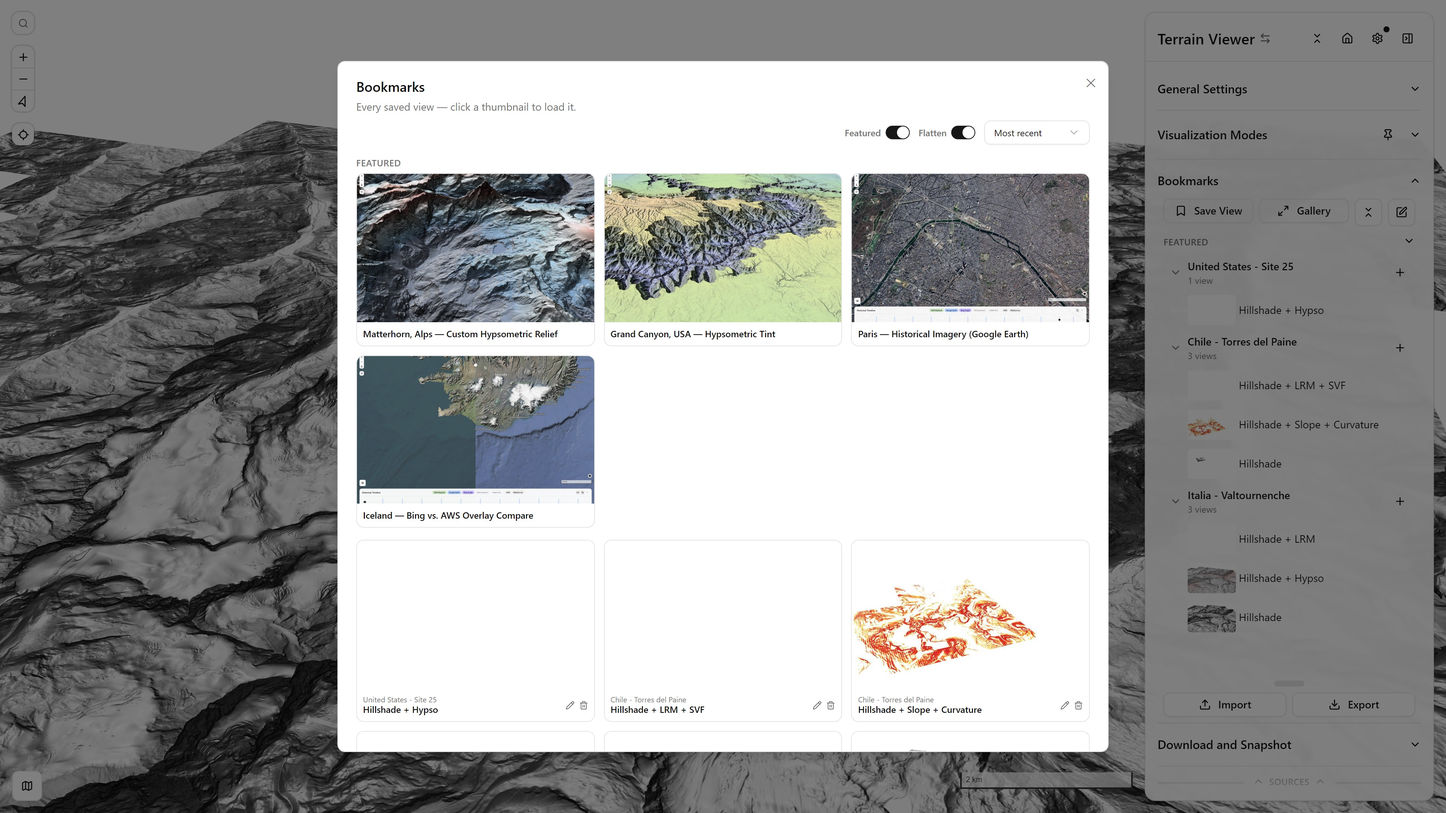
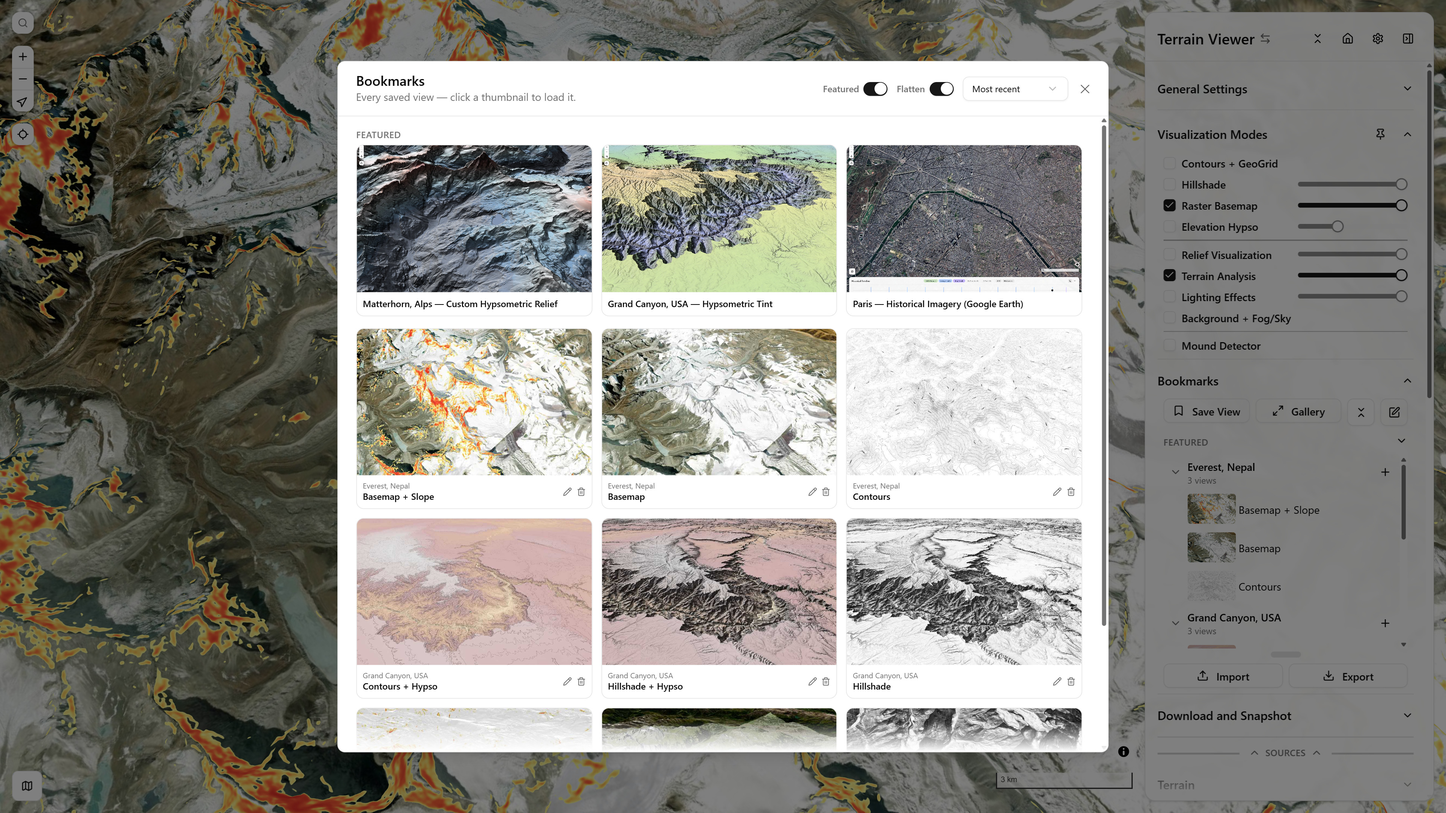
Docs: reorder Bookmarks nav page, bookmarks modal polish
Move Bookmarks between Tools and BYOD in the Features nav group. Bookmarks
gallery modal: independently-scrolling card grid (fixed non-scrolling header,
sidesteps a sticky+grid negative-margin bug), scroll-fade on the grid, and a
compact single-row header with controls aligned to the close button. Comment
out (not delete) the Iceland preset bookmark for possible reuse later. Updated
bookmark screenshots.

diff --git a/components/TerrainControlPanel/bookmarks-gallery-modal.tsx b/components/TerrainControlPanel/bookmarks-gallery-modal.tsx
@@ -1,5 +1,5 @@
 import type React from "react"
-import { useCallback, useMemo, useState } from "react"
+import { useCallback, useEffect, useMemo, useRef, useState } from "react"
 import { useAtom } from "jotai"
 import { Trash2, ImageOff, Pencil, Check } from "lucide-react"
 import type { MapRef } from "react-map-gl/maplibre"
@@ -130,6 +130,30 @@ export const BookmarksGalleryModal: React.FC<{
   const [flattenGroups, setFlattenGroups] = useAtom(galleryFlattenGroupsAtom)
   const [showFeatured, setShowFeatured] = useAtom(galleryShowFeaturedAtom)
 
+  // Scroll-fade (same pattern as TerrainControlPanel.tsx's sidebar panel):
+  // soften the top/bottom edges of the card grid with a mask gradient, only
+  // on the edge that actually has more content past it.
+  const scrollRef = useRef<HTMLDivElement>(null)
+  const [fade, setFade] = useState({ top: false, bottom: false })
+  const FADE_PX = 40
+  const updateFade = useCallback((el: HTMLElement | null) => {
+    if (!el) return
+    const top = el.scrollTop > 4
+    const bottom = el.scrollTop + el.clientHeight < el.scrollHeight - 4
+    setFade((f) => (f.top === top && f.bottom === bottom ? f : { top, bottom }))
+  }, [])
+  const handleScroll = useCallback((e: React.UIEvent<HTMLDivElement>) => updateFade(e.currentTarget), [updateFade])
+  useEffect(() => {
+    const el = scrollRef.current
+    if (!el || !open) return
+    updateFade(el)
+    const ro = new ResizeObserver(() => updateFade(el))
+    ro.observe(el)
+    for (const child of Array.from(el.children)) ro.observe(child)
+    return () => ro.disconnect()
+  }, [updateFade, open, bookmarks, flattenGroups, showFeatured])
+  const scrollMask = `linear-gradient(to bottom, ${fade.top ? "transparent" : "#000"} 0, #000 ${FADE_PX}px, #000 calc(100% - ${FADE_PX}px), ${fade.bottom ? "transparent" : "#000"} 100%)`
+
   const handleRestorePreset = (preset: Bookmark) => {
     restorePreset(preset, setState, mapRef)
     setActiveBookmarkId(null)
@@ -195,60 +219,87 @@ export const BookmarksGalleryModal: React.FC<{
 
   return (
     <Dialog open={open} onOpenChange={(o) => { if (!o) onClose() }}>
-      <DialogContent className="sm:max-w-5xl max-h-[85vh] overflow-y-auto" showCloseButton={false}>
-        <DialogClose className="absolute top-4 right-4 cursor-pointer rounded-sm opacity-70 transition-opacity hover:opacity-100">✕</DialogClose>
-        <DialogHeader>
-          <DialogTitle>Bookmarks</DialogTitle>
-          <DialogDescription>Every saved view — click a thumbnail to load it.</DialogDescription>
-        </DialogHeader>
+      <DialogContent
+        className="sm:max-w-5xl max-h-[85vh] flex flex-col gap-0 overflow-hidden p-0"
+        showCloseButton={false}
+      >
+        {/* Non-scrolling header block, a plain flex sibling above the
+         *  independently-scrolling card grid below — deliberately NOT
+         *  `position: sticky` inside the scroll container: that approach
+         *  (tried first) put the header inside the same CSS Grid as the
+         *  scrollable content, and negative margins used to bleed it to the
+         *  container's padding edges don't interact cleanly with grid track
+         *  sizing — the header ended up short of the true scroll top, so a
+         *  sliver of the card grid stayed visible above it while scrolling.
+         *  A separate fixed-height flex child sidesteps that entirely. */}
+        <div className="shrink-0 border-b px-6 py-4">
+          <div className="flex items-center justify-between gap-4">
+            <DialogHeader className="gap-0.5">
+              <DialogTitle>Bookmarks</DialogTitle>
+              <DialogDescription>Every saved view — click a thumbnail to load it.</DialogDescription>
+            </DialogHeader>
 
-        <div className="flex items-center justify-end gap-3 -mt-2">
-          <Tooltip>
-            <TooltipTrigger
-              render={
-                <div className="flex items-center gap-1.5">
-                  <Label htmlFor="gallery-show-featured" className="text-xs text-muted-foreground cursor-pointer">Featured</Label>
-                  <Switch id="gallery-show-featured" checked={showFeatured} onCheckedChange={setShowFeatured} className="cursor-pointer" />
-                </div>
-              }
-            />
-            <TooltipContent>
-              <p>{showFeatured
-                ? "Curated example viewpoints shown at the top, above your own bookmarks"
-                : "Hide the curated examples — only your own bookmarks"}</p>
-            </TooltipContent>
-          </Tooltip>
-          <Tooltip>
-            <TooltipTrigger
-              render={
-                <div className="flex items-center gap-1.5">
-                  <Label htmlFor="gallery-flatten" className="text-xs text-muted-foreground cursor-pointer">Flatten</Label>
-                  <Switch id="gallery-flatten" checked={flattenGroups} onCheckedChange={setFlattenGroups} className="cursor-pointer" />
-                </div>
-              }
-            />
-            <TooltipContent>
-              <p>{flattenGroups
-                ? "One continuous grid — no per-project row breaks or leftover empty slots"
-                : "Grouped by project, one grid per group"}</p>
-            </TooltipContent>
-          </Tooltip>
-          <Select
-            value={sort}
-            onValueChange={(v) => setSort(v as Sort)}
-            items={{ "recent-desc": "Most recent", "recent-asc": "Oldest first", name: "Name (A-Z)" }}
-          >
-            <SelectTrigger size="sm" className="w-[140px] cursor-pointer text-xs">
-              <SelectValue />
-            </SelectTrigger>
-            <SelectContent>
-              <SelectItem value="recent-desc">Most recent</SelectItem>
-              <SelectItem value="recent-asc">Oldest first</SelectItem>
-              <SelectItem value="name">Name (A-Z)</SelectItem>
-            </SelectContent>
-          </Select>
+            {/* DialogClose lives IN this row (not absolutely positioned
+             *  outside it) so it shares the row's single `items-center` rule
+             *  with the controls next to it — two independent alignment
+             *  mechanisms (absolute top-4 vs. flex items-center against a
+             *  taller title block) only approximately lined up in practice. */}
+            <div className="flex shrink-0 items-center gap-3">
+              <Tooltip>
+                <TooltipTrigger
+                  render={
+                    <div className="flex items-center gap-1.5">
+                      <Label htmlFor="gallery-show-featured" className="text-xs text-muted-foreground cursor-pointer">Featured</Label>
+                      <Switch id="gallery-show-featured" checked={showFeatured} onCheckedChange={setShowFeatured} className="cursor-pointer" />
+                    </div>
+                  }
+                />
+                <TooltipContent>
+                  <p>{showFeatured
+                    ? "Curated example viewpoints shown at the top, above your own bookmarks"
+                    : "Hide the curated examples — only your own bookmarks"}</p>
+                </TooltipContent>
+              </Tooltip>
+              <Tooltip>
+                <TooltipTrigger
+                  render={
+                    <div className="flex items-center gap-1.5">
+                      <Label htmlFor="gallery-flatten" className="text-xs text-muted-foreground cursor-pointer">Flatten</Label>
+                      <Switch id="gallery-flatten" checked={flattenGroups} onCheckedChange={setFlattenGroups} className="cursor-pointer" />
+                    </div>
+                  }
+                />
+                <TooltipContent>
+                  <p>{flattenGroups
+                    ? "One continuous grid — no per-project row breaks or leftover empty slots"
+                    : "Grouped by project, one grid per group"}</p>
+                </TooltipContent>
+              </Tooltip>
+              <Select
+                value={sort}
+                onValueChange={(v) => setSort(v as Sort)}
+                items={{ "recent-desc": "Most recent", "recent-asc": "Oldest first", name: "Name (A-Z)" }}
+              >
+                <SelectTrigger size="sm" className="w-[140px] cursor-pointer text-xs">
+                  <SelectValue />
+                </SelectTrigger>
+                <SelectContent>
+                  <SelectItem value="recent-desc">Most recent</SelectItem>
+                  <SelectItem value="recent-asc">Oldest first</SelectItem>
+                  <SelectItem value="name">Name (A-Z)</SelectItem>
+                </SelectContent>
+              </Select>
+              <DialogClose className="ml-1 cursor-pointer rounded-sm opacity-70 transition-opacity hover:opacity-100">✕</DialogClose>
+            </div>
+          </div>
         </div>
 
+        <div
+          ref={scrollRef}
+          onScroll={handleScroll}
+          className="min-h-0 flex-1 overflow-y-auto px-6 py-4"
+          style={{ maskImage: scrollMask, WebkitMaskImage: scrollMask }}
+        >
         <div className="space-y-4">
         {showFeatured && (
           <div>
@@ -329,6 +380,7 @@ export const BookmarksGalleryModal: React.FC<{
             ))}
           </div>
         )}
+        </div>
         </div>
       </DialogContent>
     </Dialog>

diff --git a/lib/preset-bookmarks.ts b/lib/preset-bookmarks.ts
@@ -63,18 +63,19 @@ export const PRESET_BOOKMARKS: Bookmark[] = [
       historicalBeta: true, historicalActiveSourceA: "ge-historical",
     }),
   },
-  {
-    id: "preset-iceland-overlay",
-    name: "Iceland — Bing vs. AWS Overlay Compare",
-    ts: 0,
-    thumb: "/bookmark-thumbs/iceland-overlay.jpg",
-    search: presetSearch({
-      viewMode: "2d", zoom: 6.1, lat: 63.7946, lng: -18.2345, pitch: 50,
-      splitStyle: "overlay", sourceB: "aws", showRasterBasemap: true, basemapSourceA: "bing",
-      dateA: 1072825200000, tellsBeta: true, tellsFrozen: true,
-      overlayOpacity: 0.8834786817944542, rasterBasemapOpacity: 0.8,
-    }),
-  },
+  // Temporarily disabled — may reuse later.
+  // {
+  //   id: "preset-iceland-overlay",
+  //   name: "Iceland — Bing vs. AWS Overlay Compare",
+  //   ts: 0,
+  //   thumb: "/bookmark-thumbs/iceland-overlay.jpg",
+  //   search: presetSearch({
+  //     viewMode: "2d", zoom: 6.1, lat: 63.7946, lng: -18.2345, pitch: 50,
+  //     splitStyle: "overlay", sourceB: "aws", showRasterBasemap: true, basemapSourceA: "bing",
+  //     dateA: 1072825200000, tellsBeta: true, tellsFrozen: true,
+  //     overlayOpacity: 0.8834786817944542, rasterBasemapOpacity: 0.8,
+  //   }),
+  // },
 ]
 
 /** Restores a preset unconditionally (no "same family, skip the viewport"
